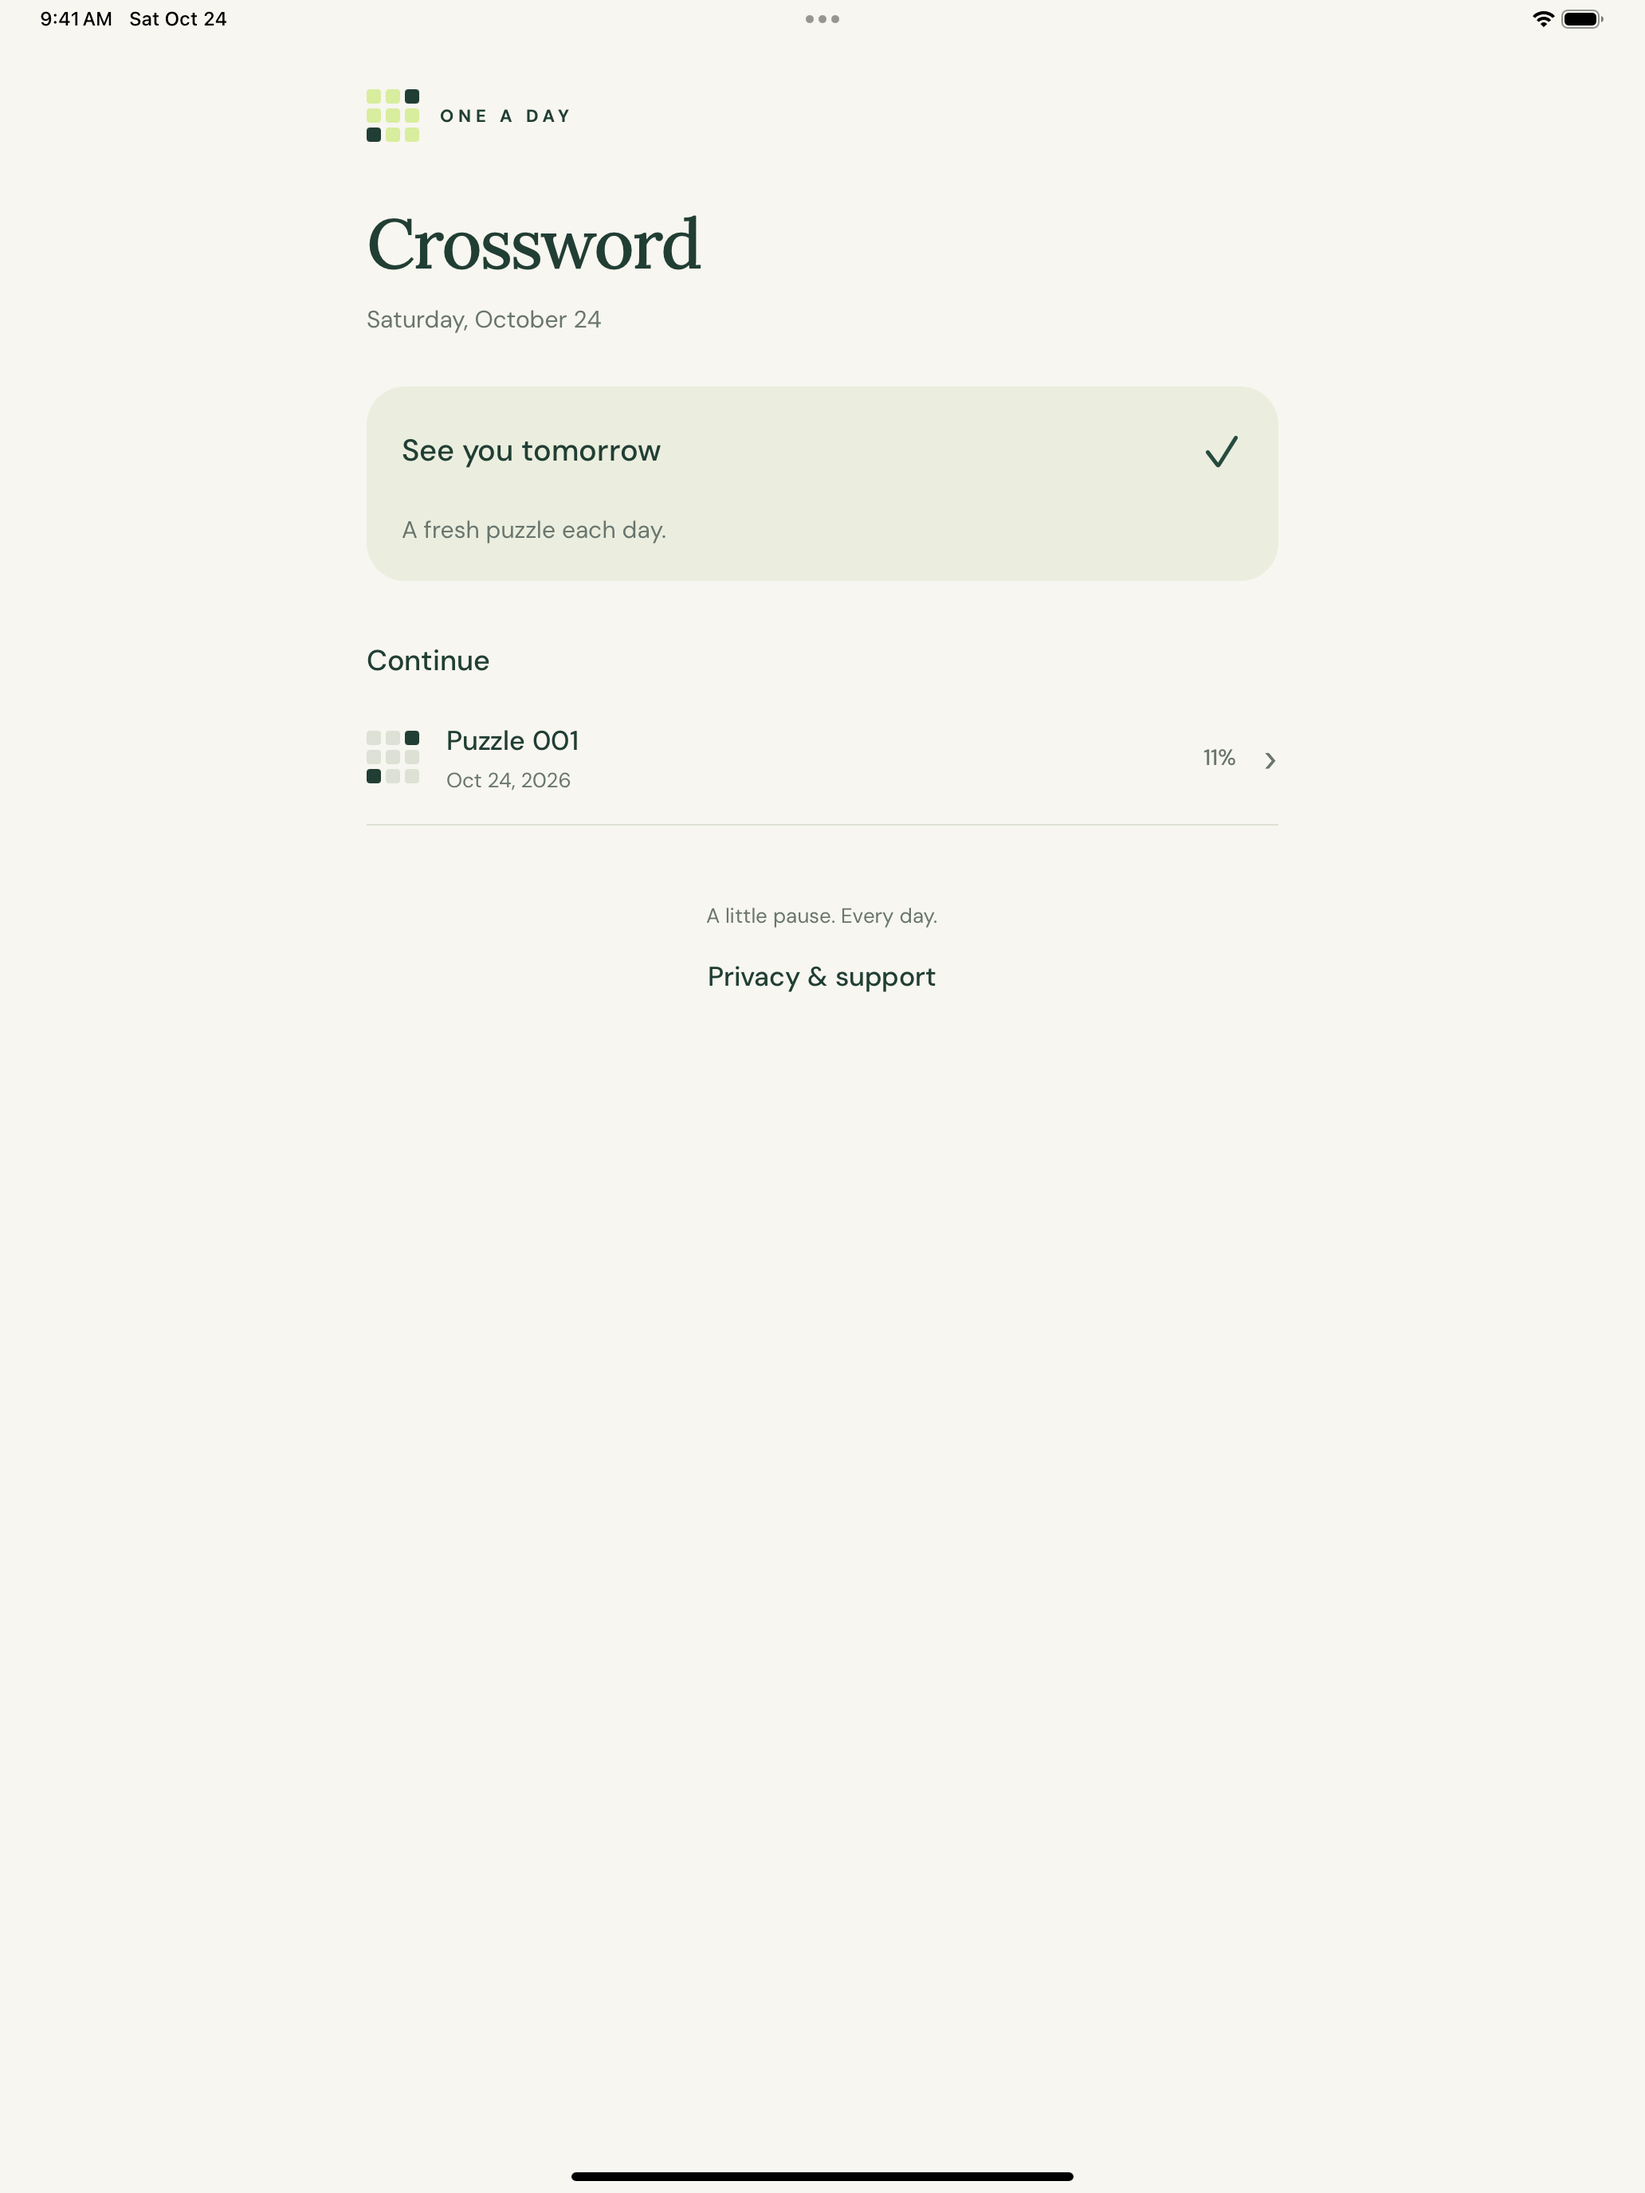
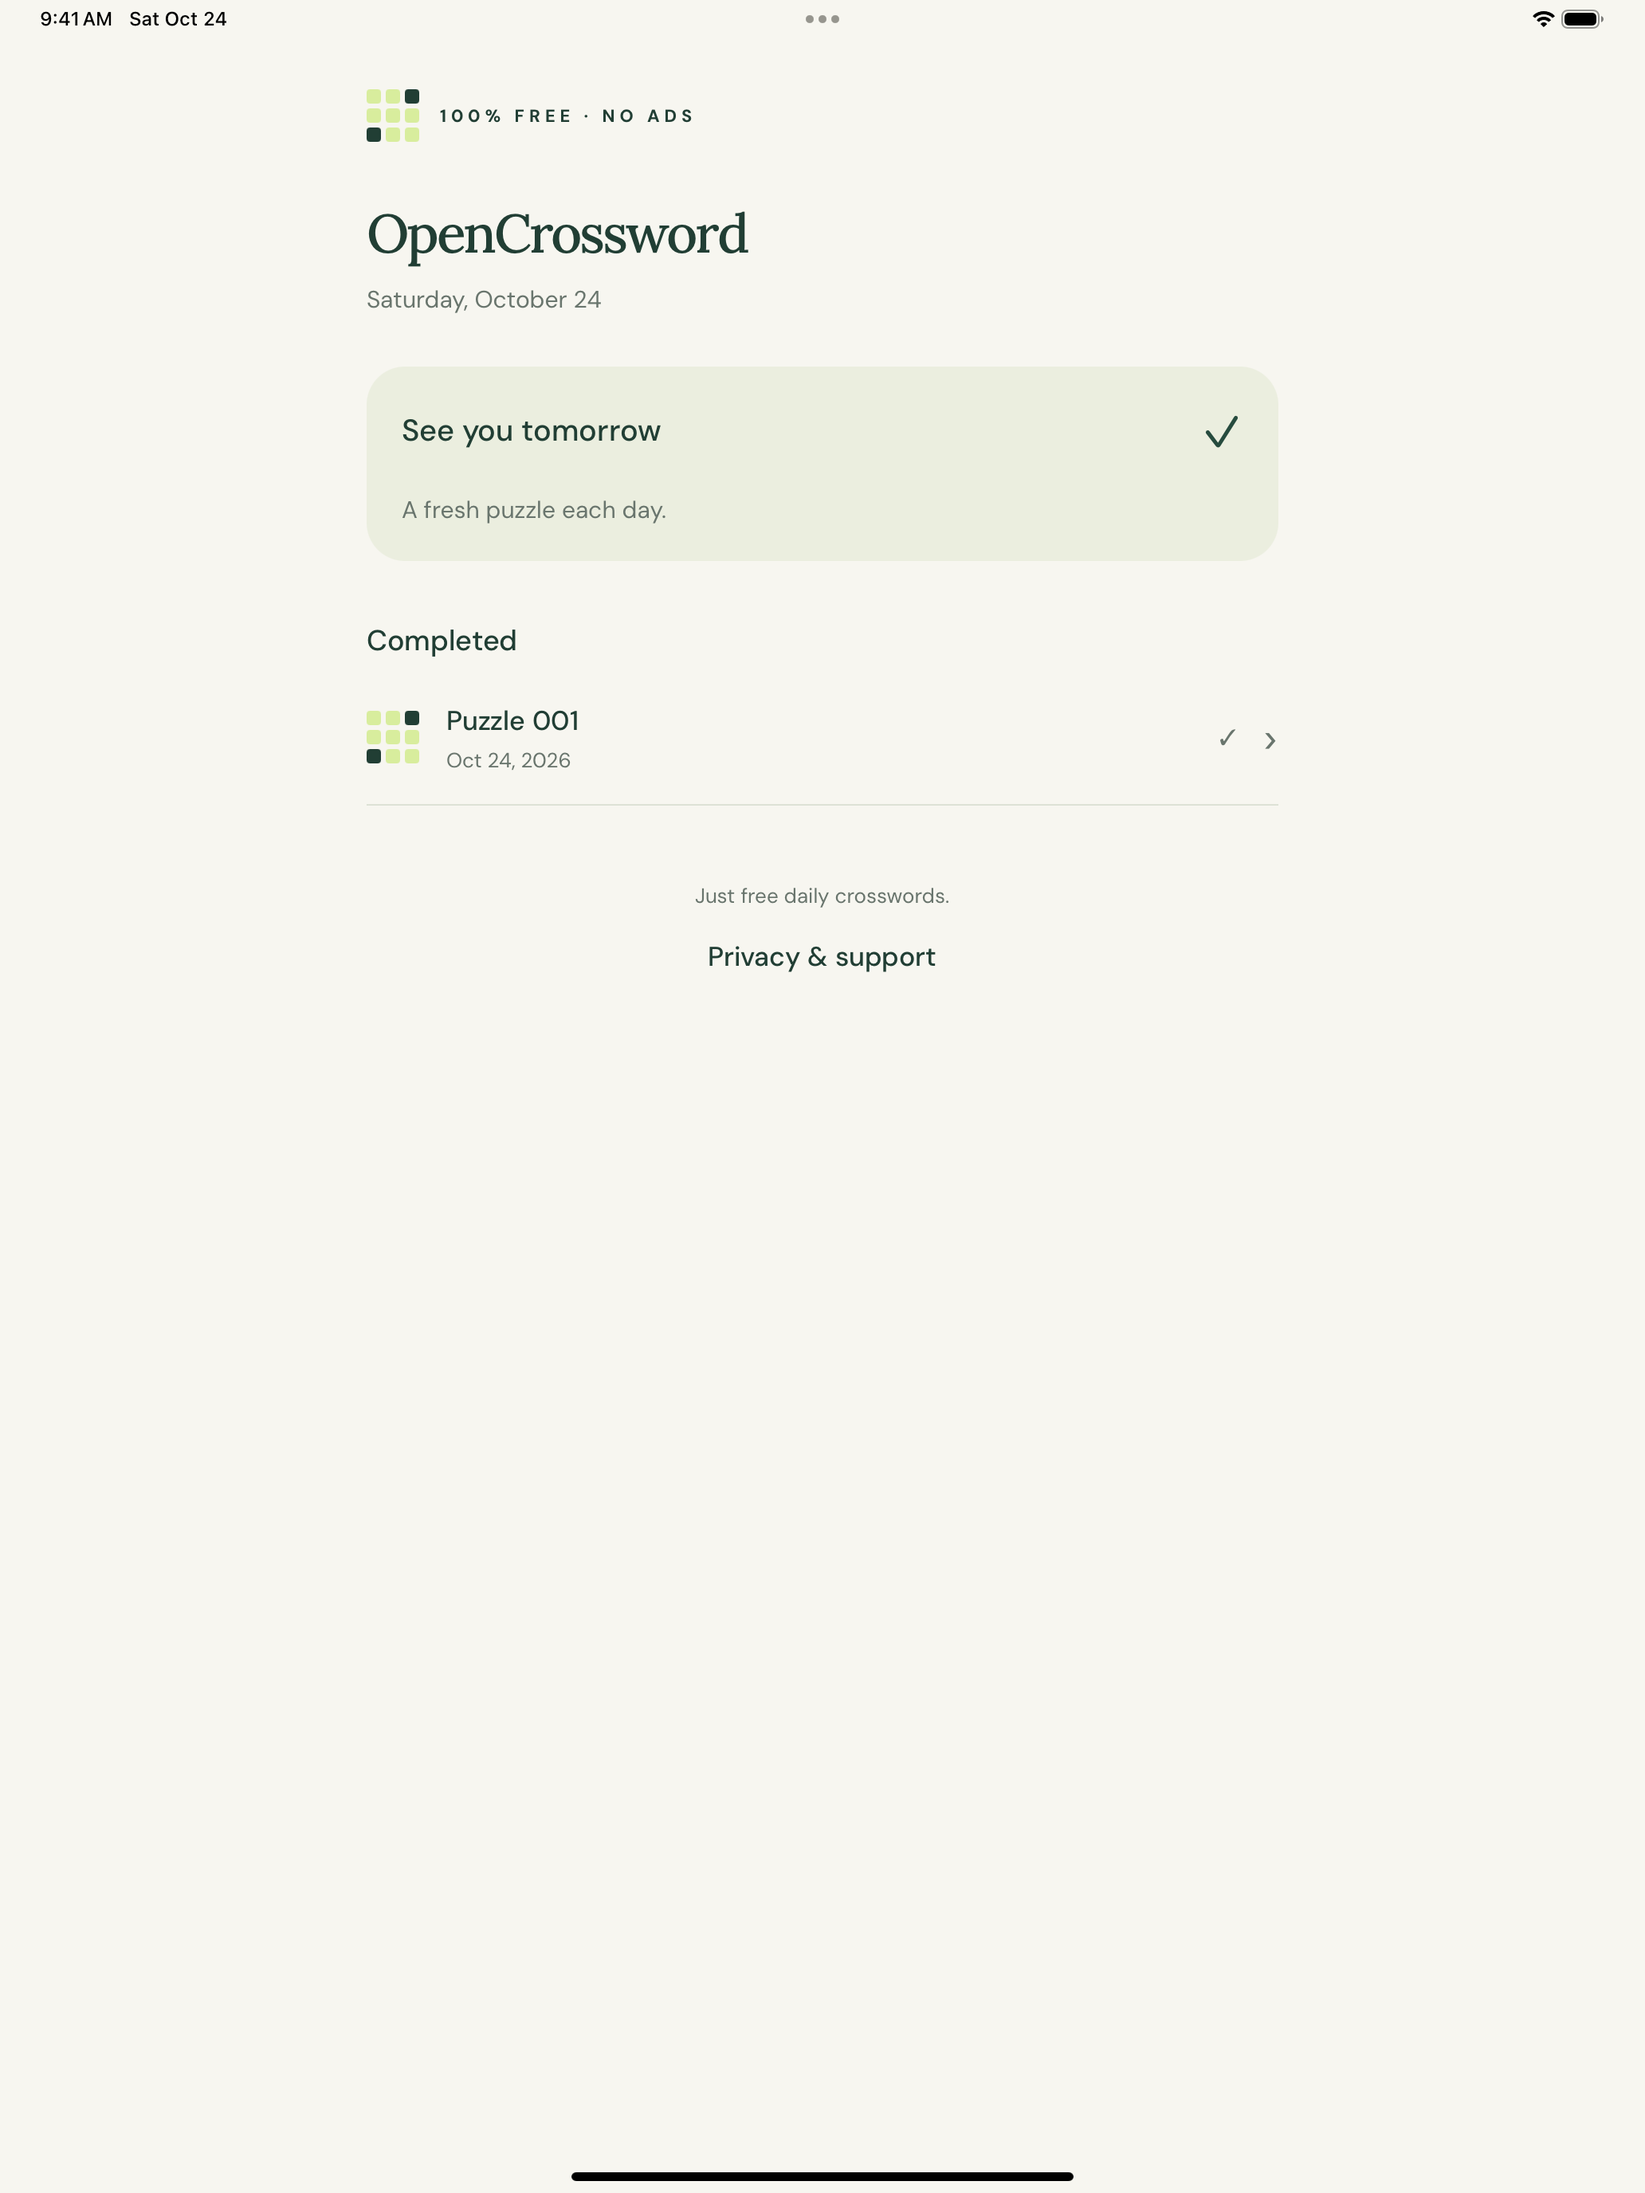
Record OpenCrossword build 5 review submission and updated screenshots

diff --git a/app-store/BUILD.md b/app-store/BUILD.md
@@ -7,3 +7,7 @@ The Hermes bundle was rebuilt from source commit `8bd2da2` using Node 22 and `ex
 The same bundle was installed and tested in the completed simulator binary. Its SHA-256 matches the release bundle. Native libraries and assets are unchanged. Strict recursive code-signature verification passed; EAS Submit uploaded the archive to Apple. EAS's remote build number is 4 so the next normal build will increment to 5.
 
 See `release-status.json` for build IDs and hashes, and `validation.json` for verification. Future releases can use the normal EAS build command once the account's quota resets.
+
+# Build 5 — OpenCrossword
+
+Source `d8404e4` renames the app to OpenCrossword and emphasizes “100% free. No ads. Just daily crosswords.” The production Hermes bundle and `CFBundleDisplayName` were updated using the same verified packaging process. The signed archive uses build number 5; EAS’s remote build number is also 5. Native libraries, dependencies, entitlements, and assets remain unchanged. Updated home screenshots were captured on iPhone and iPad.
